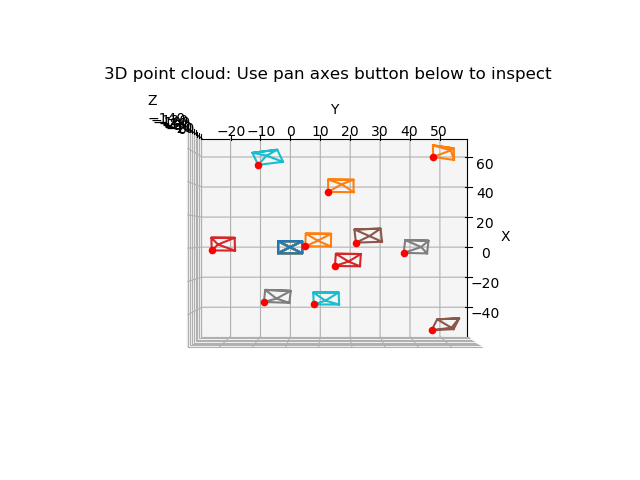
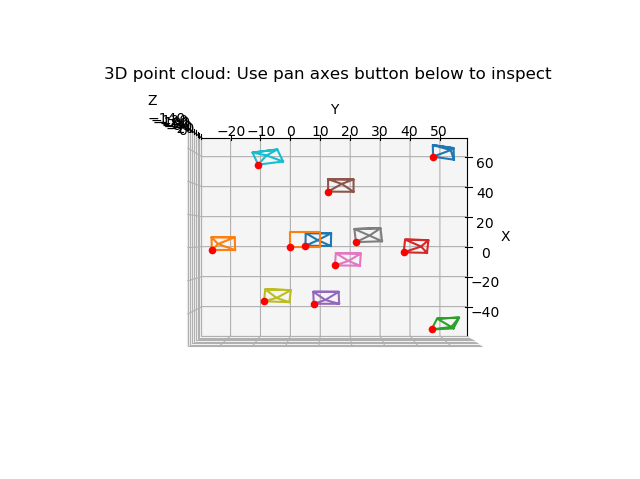
fix: task6 step4 update plot

diff --git a/code/task_6/code.py b/code/task_6/code.py
@@ -112,10 +112,20 @@ for frame in left_imgs:
 
 	cam_frustrum3 = np.squeeze(np.asarray(cam_frustrum2))
 
-	ax.plot(cam_frustrum1[:,0], cam_frustrum1[:,1], cam_frustrum1[:,2])
+	#ax.plot(cam_frustrum1[:,0], cam_frustrum1[:,1], cam_frustrum1[:,2])
 	ax.plot(cam_frustrum3[:,0], cam_frustrum3[:,1], cam_frustrum3[:,2])
 	# plot top left corner as red dot
 	ax.scatter(cam_frustrum3[:,0][0], cam_frustrum3[:,1][0], cam_frustrum3[:,2][0], c='r', marker='o',zdir="z")
+
+# Plot square as representation of ArUco marker
+cam_aruco = np.array([[0,0,0],
+	           [10,0,0],
+	           [10,10,0],
+	           [0,10,0],
+	           [0,0,0]])
+
+ax.plot(cam_aruco[:,0], cam_aruco[:,1], cam_aruco[:,2])
+ax.scatter(0,0,0, c='r', marker='o',zdir="z")
 
 #plt.show()
 
